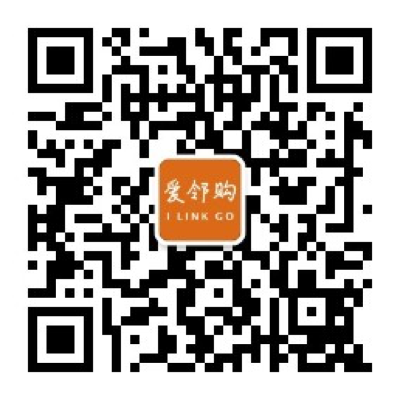
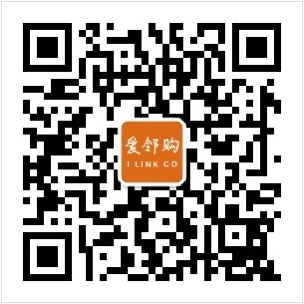
add qrcode

Changed region(s): [[0.0592, 0.0592, 0.9474, 0.9474], [0.0, 0.0, 1.0, 1.0]]

diff --git a/Main/Product/SelectCategoryProductView.js b/Main/Product/SelectCategoryProductView.js
@@ -197,18 +197,18 @@ export default class SelectCategoryProductView extends Component{
         return(
             <View style={{
                 resizeMode: 'contain', alignItems: 'center', width: w, height: h,
-                justifyContent: 'center',  paddingRight: 10, flexDirection: "row", backgroundColor: 'white',
+                justifyContent: 'flex-start',  paddingRight: 10, flexDirection: "row", backgroundColor: 'white',
                 flex: 1
             }}>
 
                 <View style={{
-                    flex: 30
+                    marginLeft:10,marginRight:10,width:20,alignItems: 'center',
                 }}>
                     {this.renderCheckBox(item,groupProductScrollArr)}
 
                 </View>
                 <View style={{
-                    flex: 80
+
                 }}>
                     <Image style={{
                         resizeMode: 'contain', alignItems: 'center', width: 80, height: 80,
@@ -216,9 +216,8 @@ export default class SelectCategoryProductView extends Component{
                     }} source={this.disPlayIcon(item)} />
                 </View>
                 <View style={{
-                    height: h,
-                    alignItems: 'flex-start',
-                    flex: 265
+                    height: h,width:width-100,
+                    alignItems: 'flex-start'
                 }}>
                     <Text style={{ marginLeft: 10, marginTop: 10, numberOfLines: 2, ellipsizeMode: 'tail', fontSize: 14, color: "#1c1c1c", }}>{item.name}</Text>
                     <Text style={{ marginLeft: 10, alignItems: 'center', justifyContent: 'center', fontSize: 12, color: "#757575", }}>{item.default_unit}</Text>
@@ -382,29 +381,30 @@ export default class SelectCategoryProductView extends Component{
 
                 <View style={{justifyContent: 'flex-start',
                     alignItems: 'center',
-                    backgroundColor: '#ffffff',flex:1}}>
+                    backgroundColor: '#ffffff'}}>
                     <ScrollView
                         keyboardDismissMode='on-drag'
                         keyboardShouldPersistTaps={false}
-                        style={{width:width,height:height-180,backgroundColor:'rgb(242,242,242)'}}>
+                        style={{width:width,height:height-120,backgroundColor:'rgb(242,242,242)'}}>
 
                         {this.renderProductScrollView(this.state.groupProductScrollArr)}
                     </ScrollView>
-                    <View style={{width:width,height:50,position:'absolute',bottom:0,backgroundColor:'white',flexDirection:'row',justifyContent:'flex-start'}}>
-                        <View style={{flex:137.5,backgroundColor:'white',flexDirection:'row',alignItems:'center',justifyContent:'flex-start'}}>
-                            {this.renderAllCheckBox(this.state.groupProductScrollArr)}
-                            <Text style={{color:'black',fontFamily:'PingFangSC-Regular',fontSize:14,textAlign:'center',marginLeft:10}}>全选</Text>
 
-                        </View>
-                        <View style={{flex:137.5,backgroundColor:'white',flexDirection:'row',alignItems:'center'}}>
-                            <Text style={{color:'rgb(117,117,117)',fontSize:14,fontFamily:'PingFangSC-Regular',textAlign:'center'}}>已选：{this.state.selectedNum}件</Text>
-                        </View>
-                        <TouchableOpacity style={{flex:100,backgroundColor:'rgb(234,107,16)',justifyContent:'center',alignItems:'center'}} onPress={this.onSelectProductPress.bind(this)}>
-                           <Text style={{color:'white',fontSize:18,fontFamily:'PingFang-SC-Medium',textAlign:'center'}}>确认</Text>
-                        </TouchableOpacity>
+
+
+                </View>
+                <View style={{width:width,height:50,position:'absolute',bottom:0,backgroundColor:'white',flexDirection:'row',justifyContent:'flex-start'}}>
+                    <View style={{flex:137.5,backgroundColor:'white',flexDirection:'row',alignItems:'center',justifyContent:'flex-start'}}>
+                        {this.renderAllCheckBox(this.state.groupProductScrollArr)}
+                        <Text style={{color:'black',fontFamily:'PingFangSC-Regular',fontSize:14,textAlign:'center',marginLeft:10}}>全选</Text>
 
                     </View>
-
+                    <View style={{flex:137.5,backgroundColor:'white',flexDirection:'row',alignItems:'center'}}>
+                        <Text style={{color:'rgb(117,117,117)',fontSize:14,fontFamily:'PingFangSC-Regular',textAlign:'center'}}>已选：{this.state.selectedNum}件</Text>
+                    </View>
+                    <TouchableOpacity style={{flex:100,backgroundColor:'rgb(234,107,16)',justifyContent:'center',alignItems:'center'}} onPress={this.onSelectProductPress.bind(this)}>
+                        <Text style={{color:'white',fontSize:18,fontFamily:'PingFang-SC-Medium',textAlign:'center'}}>确认</Text>
+                    </TouchableOpacity>
 
                 </View>
 

diff --git a/Main/Product/NewProductCategoryView.js b/Main/Product/NewProductCategoryView.js
@@ -367,7 +367,7 @@ export default class NewProductCategoryView extends Component{
 
 
                     <View style={{
-                        flex: 2
+
                     }}>
                         <Image style={{
                             resizeMode: 'contain', alignItems: 'center', width: 80, height: 80,
@@ -375,15 +375,15 @@ export default class NewProductCategoryView extends Component{
                         }} source={this.disPlayIcon(item)} />
                     </View>
                     <View style={{
-                        flex: 7
+                        width:width-100
                     }}>
                         <TouchableOpacity style={{alignItems: 'flex-start',height: h,
 
                         }} onPress={this.onPressToEditGoods.bind(this,item)}>
 
-                            <Text style={{ marginLeft: 30, marginTop: 10, numberOfLines: 2, ellipsizeMode: 'tail', fontSize: 14, color: "#1c1c1c", }}>{item.name}</Text>
-                            <Text style={{ marginLeft: 30, alignItems: 'center', justifyContent: 'center', fontSize: 12, color: "#757575", }}>{item.default_unit}</Text>
-                            <View style={{ alignItems: 'center', flexDirection: 'row', marginLeft: 30, paddingBottom: 10, position: 'absolute', left: 0, right: 0, bottom: 0 }}>
+                            <Text style={{ marginLeft: 10, marginTop: 10, numberOfLines: 2, ellipsizeMode: 'tail', fontSize: 14, color: "#1c1c1c", }}>{item.name}</Text>
+                            <Text style={{ marginLeft: 10,marginTop: 5, alignItems: 'center', justifyContent: 'center', fontSize: 12, color: "#757575", }}>{item.default_unit}</Text>
+                            <View style={{ alignItems: 'flex-start', flexDirection: 'row', marginLeft: 10, paddingBottom: 10, position: 'absolute', left: 0, right: 0, bottom: 0 }}>
                                 <Text style={{ alignItems: 'center', justifyContent: 'center', fontSize: 16, color: "#fb7210", }}>S${item.default_price}</Text>
                                 <Text style={{ alignItems: 'center', textAlign: 'right', flex: 9, justifyContent: 'center', fontSize: 12, color: "#757575", }}>库存：{item.default_stock} </Text>
                             </View>

diff --git a/Main/TabView.js b/Main/TabView.js
@@ -68,6 +68,7 @@ export default class TabView extends Component {
                         renderIcon={() => <Image source={require('../images/home_icon.png')} />}
                         renderSelectedIcon={() => <Image source={require('../images/home_icon_click.png')} />}
                         badgeText=""
+                        titleStyle={{color:'#555555'}}
                         selectedTitleStyle={styles.tabBarTintColor}
                         onPress={() => this.setState({ selectedTab: 'tab1' })}>
                         {<HomeView {...this.props} />}
@@ -75,6 +76,7 @@ export default class TabView extends Component {
                     <TabNavigator.Item
                         selected={this.state.selectedTab === 'tab2'}
                         title="拼团车"
+                        titleStyle={{color:'#555555'}}
                         renderIcon={() => <Image source={require('../images/shoppingcart_icon.png')} />}
                         renderSelectedIcon={() => <Image source={require('../images/shoppingcart_icon_click.png')} />}
                         selectedTitleStyle={styles.tabBarTintColor}
@@ -84,6 +86,7 @@ export default class TabView extends Component {
                     <TabNavigator.Item
                         selected={this.state.selectedTab === 'tab3'}
                         title="团长"
+                        titleStyle={{color:'#555555'}}
                         renderIcon={() => <Image source={require('../images/me_icon.png')} />}
                         renderSelectedIcon={() => <Image source={require('../images/me_icon_click.png')} />}
                         selectedTitleStyle={styles.tabBarTintColor}

diff --git a/Main/HelpView.js b/Main/HelpView.js
@@ -63,13 +63,19 @@ export default class HelpView extends Component {
                     title="帮助中心"
                     leftIcon={require('../images/back.png')}
                     leftPress={this.back.bind(this)} />
+                <View >
                     <Text style={[styles.defaultText,{marginTop:80}]}>您有任何的问题都可以电话或微信联系客服。</Text>
-                    <Text style={{marginTop:10,fontSize:18,color:'#1c1c1c',fontFamily:'PingFang-SC-Medium',textAlign:'left'}}>
-                    客服电话：400-0358-3848
+                    <Text style={{marginTop:10,fontSize:18,color:'#1c1c1c',fontFamily:'PingFang-SC-Medium',textAlign:'left',width:300,}}>
+                        客服电话：400-0358-3848
                     </Text>
-                    <Text style={{marginTop:10,fontSize:18,color:'#1c1c1c',fontFamily:'PingFang-SC-Medium',textAlign:'left'}}>
-                    微信：ailingo123
+                    <Text style={{marginTop:10,fontSize:18,color:'#1c1c1c',fontFamily:'PingFang-SC-Medium',textAlign:'left',width:300,}}>
+                        客服微信：ILGO_SG
                     </Text>
+                </View>
+                <View>
+                    <Image style={{marginTop:60,width:150,height:150}} source={require('../images/qrCode.png')}></Image>
+                </View>
+
             </View>
         )
     }

diff --git a/common/NavBar.js b/common/NavBar.js
@@ -42,13 +42,13 @@ export default class NavBar extends Component{
               if(Platform.OS === 'android'){
               return (
                 <TouchableNativeFeedback onPress={onPress} style={styles.btn}>
-                  <Image source={name} style={{width: px2dp(26), height: px2dp(26),resizeMode:'contain'}}/>
+                  <Image source={name} style={{width: px2dp(44), height: px2dp(44),resizeMode:'contain'}}/>
                 </TouchableNativeFeedback>
               )
             }else{
               return (
                 <TouchableOpacity onPress={onPress} style={styles.btn}>
-                  <Image source={name} style={{width: px2dp(26), height: px2dp(26),resizeMode:'contain'}}/>
+                  <Image source={name} style={{width: px2dp(44), height: px2dp(44),resizeMode:'contain'}}/>
                 </TouchableOpacity>
               )
             }
@@ -152,11 +152,12 @@ const styles = StyleSheet.create({
         justifyContent: 'space-between',
         alignItems: 'center',
         paddingTop: (Platform.OS === 'ios') ? 20 : 0,
-        // paddingHorizontal: px2dp(10)
+        paddingHorizontal: px2dp(10)
     },
+
     btn: {
-      width: 34,
-      height: 34,
+      width: 44,
+      height: 44,
       justifyContent: 'center',
       alignItems: 'center'
     },

diff --git a/Main/MineView.js b/Main/MineView.js
@@ -134,13 +134,13 @@ export default class MineView extends Component {
         Global.role = response.data.user_profile.role
         if (Global.role =='consumer'){
 
-            // this.props.navigator.push({
-            //
-            //     component: AgentRegisteredView,
-            // })
             this.props.navigator.push({
-                component: ProductManager
+
+                component: AgentRegisteredView,
             })
+            // this.props.navigator.push({
+            //     component: ProductManager
+            // })
         }else {
 
             this.props.navigator.push({
@@ -154,13 +154,13 @@ export default class MineView extends Component {
         Global.role = response.data.user_profile.role
         if (Global.role =='consumer'){
 
-            // this.props.navigator.push({
-            //
-            //     component: AgentRegisteredView,
-            // })
             this.props.navigator.push({
-                component: MyGroupBuyListView,
+
+                component: AgentRegisteredView,
             })
+            // this.props.navigator.push({
+            //     component: MyGroupBuyListView,
+            // })
 
         }else {
 

diff --git a/Main/Group/NewGroupView.js b/Main/Group/NewGroupView.js
@@ -821,7 +821,7 @@ export default class NewGroupView extends Component{
                 }} source={this.disPlayIcon(item)} />
                 </View>
 
-                <View style={{marginLeft:10
+                <View style={{marginLeft:10,width:width-100
             }}><TouchableOpacity style={{flexDirection:'column',alignItems: 'flex-start',height: h,
 
                 }} onPress={this.onPressToEditGoods.bind(this,item,i)}>
